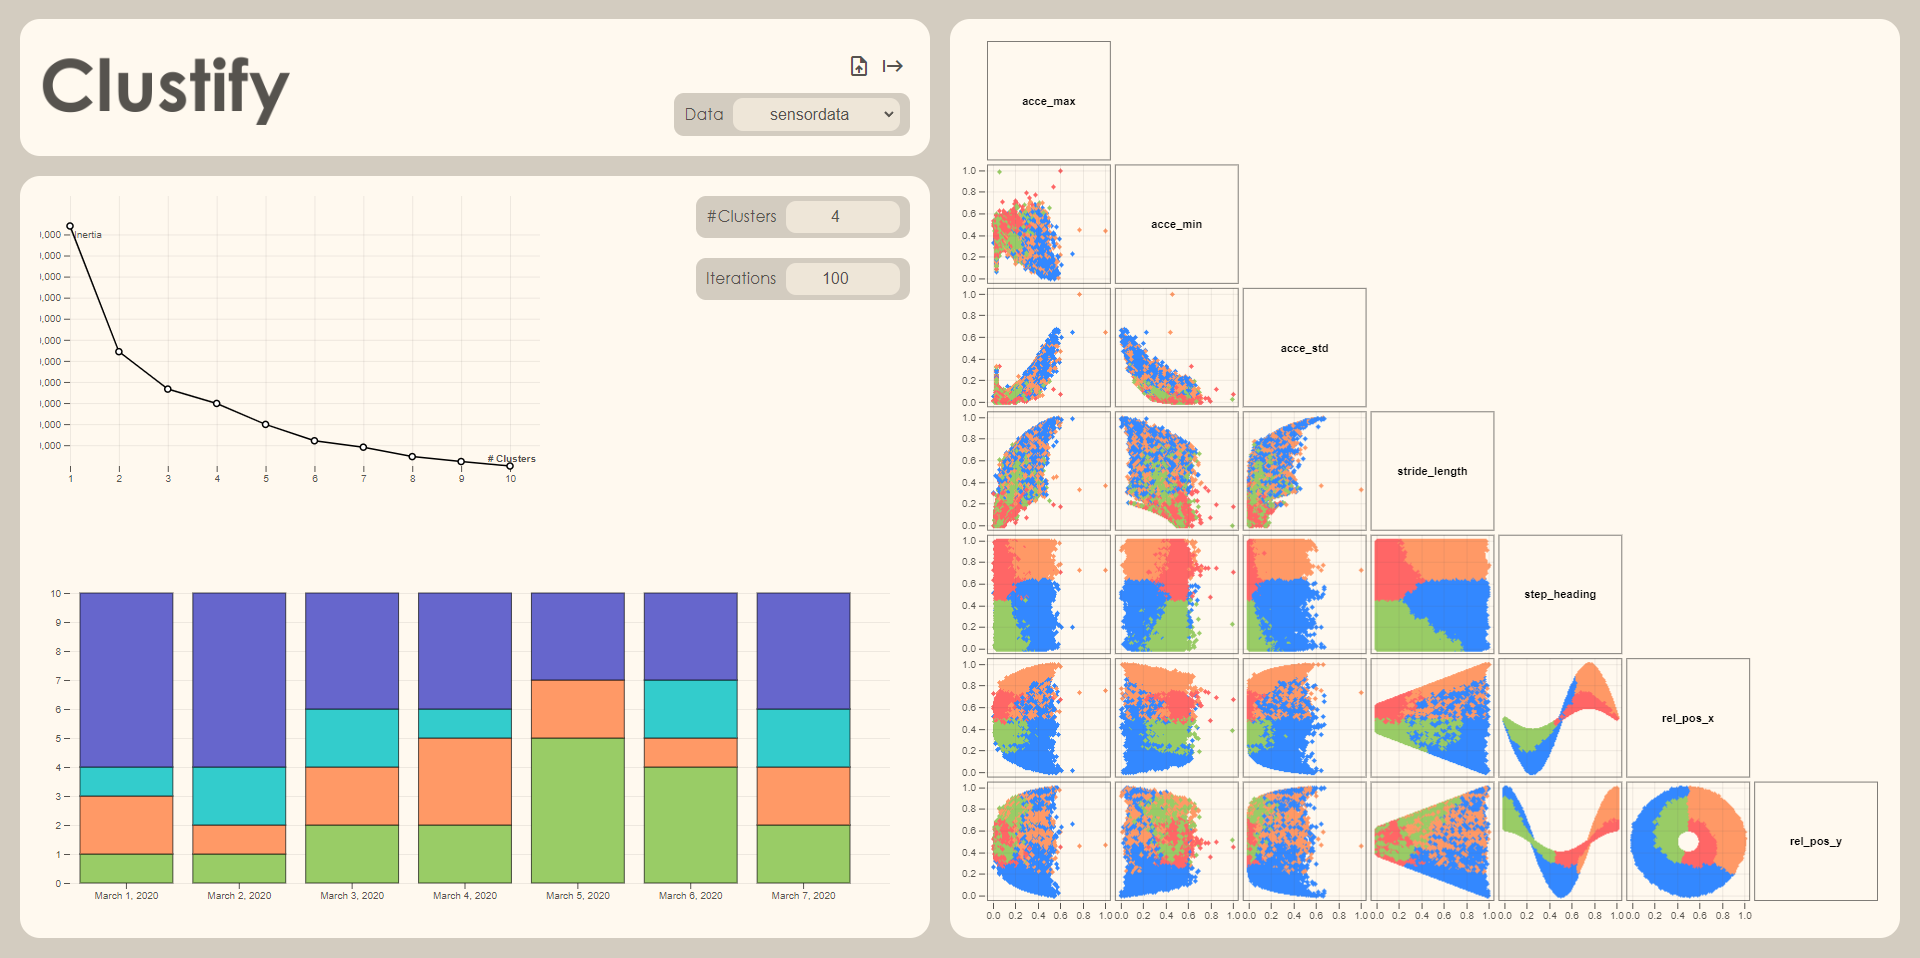
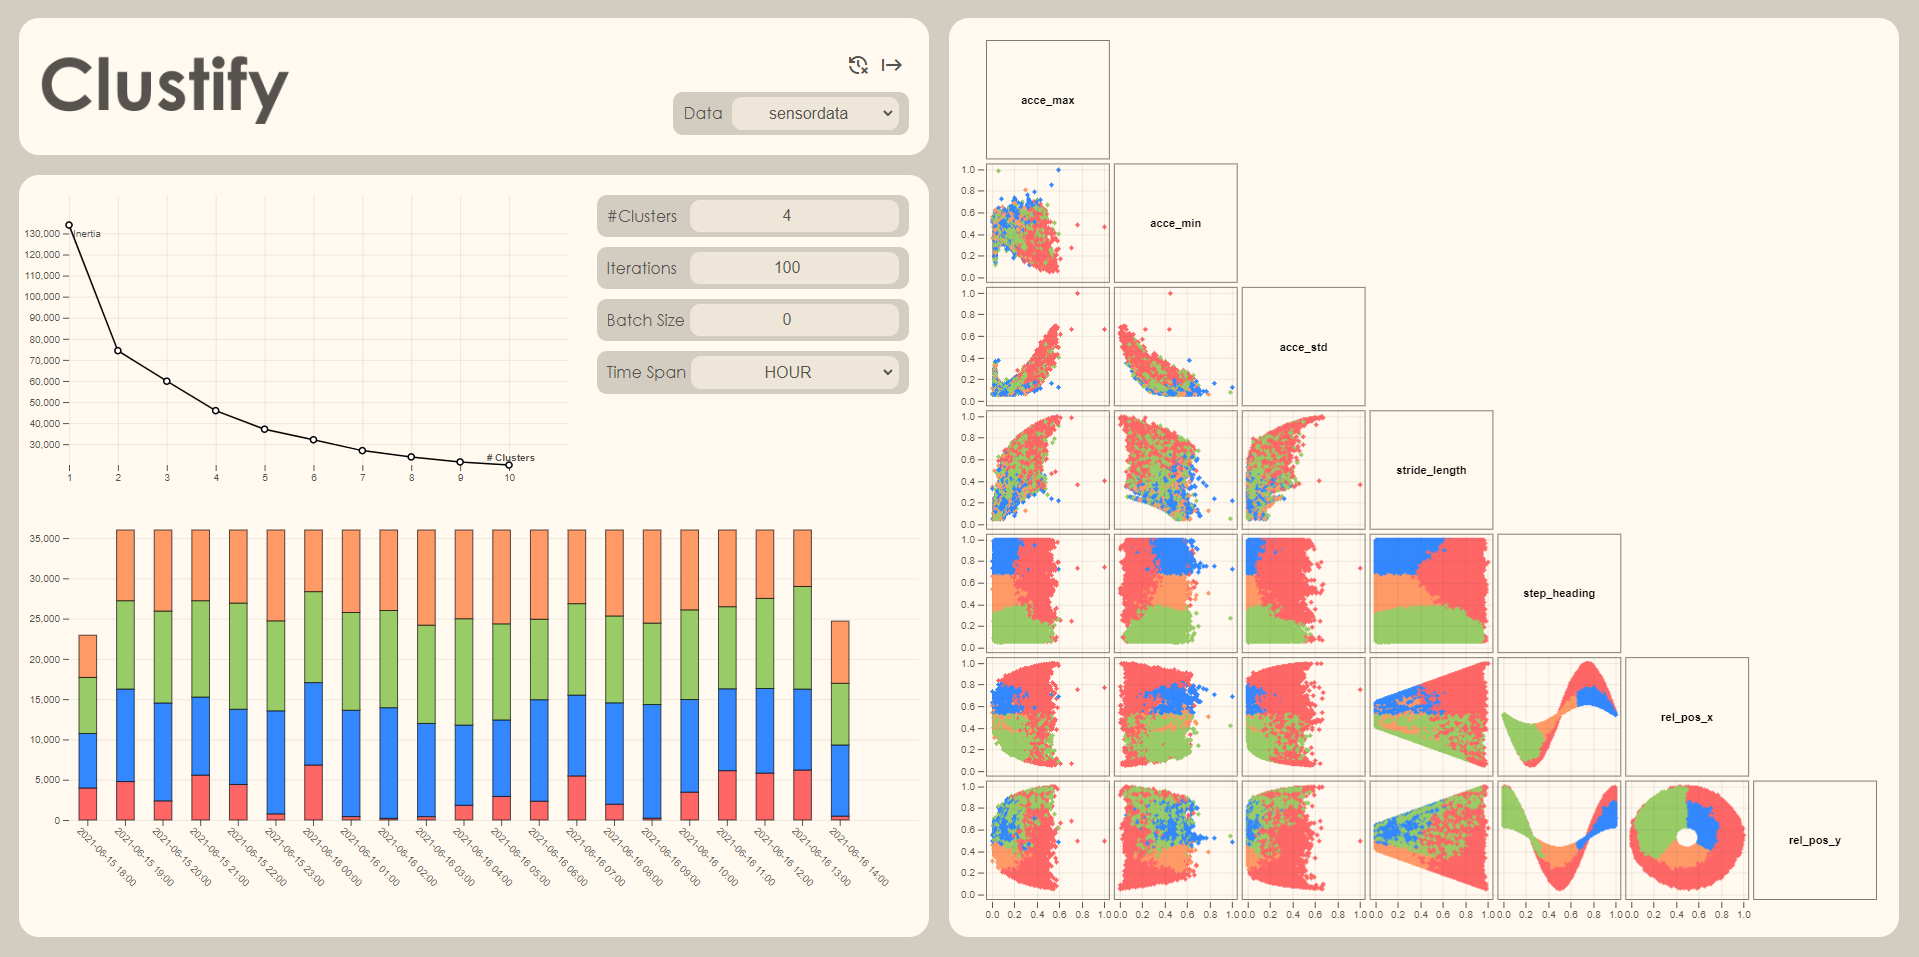
Update README

diff --git a/README.md b/README.md
@@ -17,8 +17,29 @@
 
 ### Usage
 
+#### Adding your dataset
 1. Upload the file you want to cluster to ```/public/datasets/```
 2. Refresh the browser and your file should be ready in the dropdown
+
+#### Inputs
+- **Dataset**: The dataset you want to cluster
+- **#Clusters**: The number of clusters you want to create
+- **#Iterations**: The maximum number of iterations you want the algorithm to perform
+- **Batch Size**: The number of data points to process in each iteration (if set to 0, all datapoints are beeing processed)
+- **Time Span**: How the datapoints should be grouped for the timeline (either per day or per hour)
+
+#### Clustering
+- Select the dataset you want to cluster
+- Provide your values for the inputs (**#Clusters** and **Time Span** can be changed after clustering)
+- Choose the attributes you want to cluster on, by pressing the ```start``` button and checking the corresponding checkbox in the popup 
+- Press the ```start``` button in the popup to start the clustering process
+- Depending on the size of the dataset, the clustering process can take a while
+- After the process has finished you can adjust the **#Clusters** based on the Elbow-Plot (the results are rendered again based on the change)
+- Your can also change the **Time Span** for further analysis
+
+#### Caching
+The results are "cached" as files in the ```/public/results/``` folder. With that the calculations are only beeing done once for one dataset with the same settings.
+If you wish to recalculate the results, you can press the ```clear-history``` button and the created files will be deleted.
 
 
 ### About
